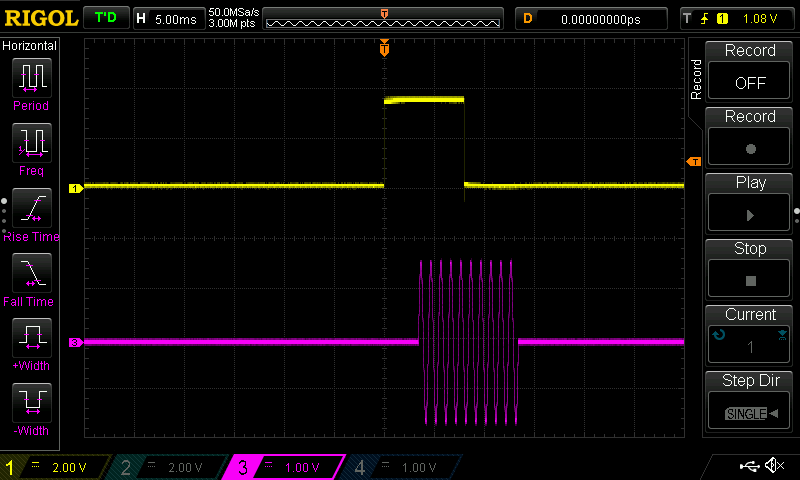
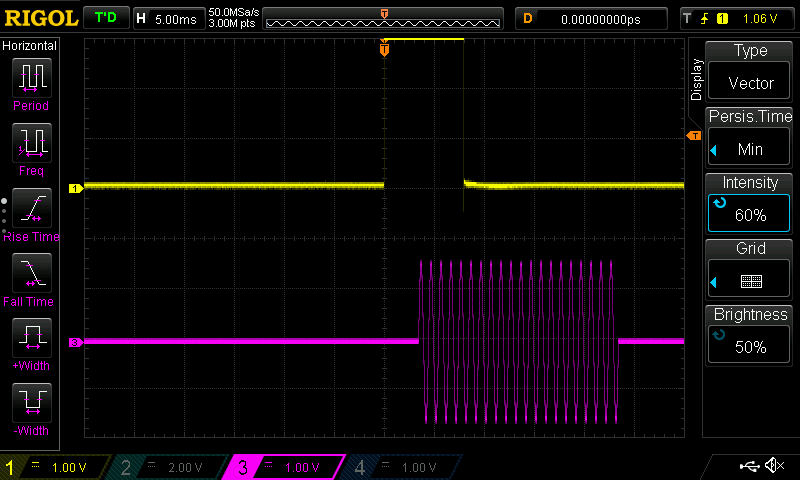
Updated Readme and made a bit more consistent png's

diff --git a/README.md b/README.md
@@ -18,26 +18,32 @@ Port (SPP) and generate tones with with a sound card.
 
 ## Design
 
-A large number of stimuli are presented. The stimuli are 10 ms of 1Khz. In
+A large number of stimuli are presented. The stimuli are 20 ms of 1Khz. In
 synchronous fashion, a large number of pulses/triggers are send.
-The triggers are setting data line 1 of the SPP high for a 10ms as well.
-Since we assume the triggers are presented at the same time as the sound
-stimuli we can have a look at the signals on the oscilloscope. Then we should
-have a reasonable idea of the offset and the latency.
+The triggers are setting data line 0-7 of the SPP high for a 8ms as well. 8 ms
+is chosen, because in the biosemidocumentation the usb -> parallel cable
+sends pulses of 8 ms as well. The data lines are set high by writing 0xFF (255)
+to the data register. Since we assume the triggers are presented at the same
+time as the sound stimuli we can have a look at the signals on the
+oscilloscope. Then we should have a reasonable idea of the offset and the
+latency.
 
 ### Optimal results
-So in the image below, we can see the desired results, where the trigger starts
-simultaneous  with the onset of the sound. This should happen all the time ideally.
+So in the image below, we can see the desired results, where the trigger (yellow
+line) starts simultaneous with the onset of the sound (purple line). This
+should happen all the time ideally. Every square at the horizonal axis represents
+5 ms. So you can see that the trigger duration is precisely 8 ms and the sound
+duration is 4 squares, hence 20ms.
 
 ![alt text][simultaneous]
 
 ### Delayed results
 In the scenario below one can see that the stimuli are always presented a little
-to late. However, there isn't any jitter, that is, the stimuli are alway quite
+to late. However, there is not any jitter, that is, the stimuli are alway quite
 precisely 3.4ms to late. That is suboptimal, but something one can work with.
 Using Zep on Linux, one can tell the SoundOutputDevice that there is a
-harware_delay of 3.4 ms and then zep will schelude the stimuli 3.4 ms earlier
-to correct for the delay.
+hardware_delay of 3.4 ms and then zep will schedule the stimuli 3.4 ms earlier
+to correct for the delay. With these settig the image above is made.
 
 ![alt text][delayed]
 
@@ -45,10 +51,12 @@ to correct for the delay.
 Below is the situation of jittered pulse and signals, this is the worst case
 scenario. Then there is a unpredictable delay for which cannot be controlled.
 Hence than you should hope that the jitter is < 1ms, than it is reasonably alright.
-but if it is much more, you will lose quite some temporal precision.
+but if it is much more, you will lose quite some temporal precision. The jitter
+was generated using a jitter of 3ms, but this can be much more with some toolkits.
+In the picture below you also see a "shadow" of all the traces of last second,
+this enables to see the jitter in a picture.
 
 ![alt text][jitter]
-
 
 
 ## Notes
@@ -60,7 +68,7 @@ optimal results.
 2. SoundPlayback. Make sure the audio is not at 100% either. Zep (its backends)
 do not like it or the Xonar D2 devices do not like it. The waveforms are
 distored.
-3. Xonar has a hardware latency of about 3.4 ms. (on Linux).
+3. Xonar has a hardware latency of roughly 3.4 ms. (on Linux).
 
 [simultaneous]: ./images/oscilloscope.png
 [delayed]: ./images/delayed.png
